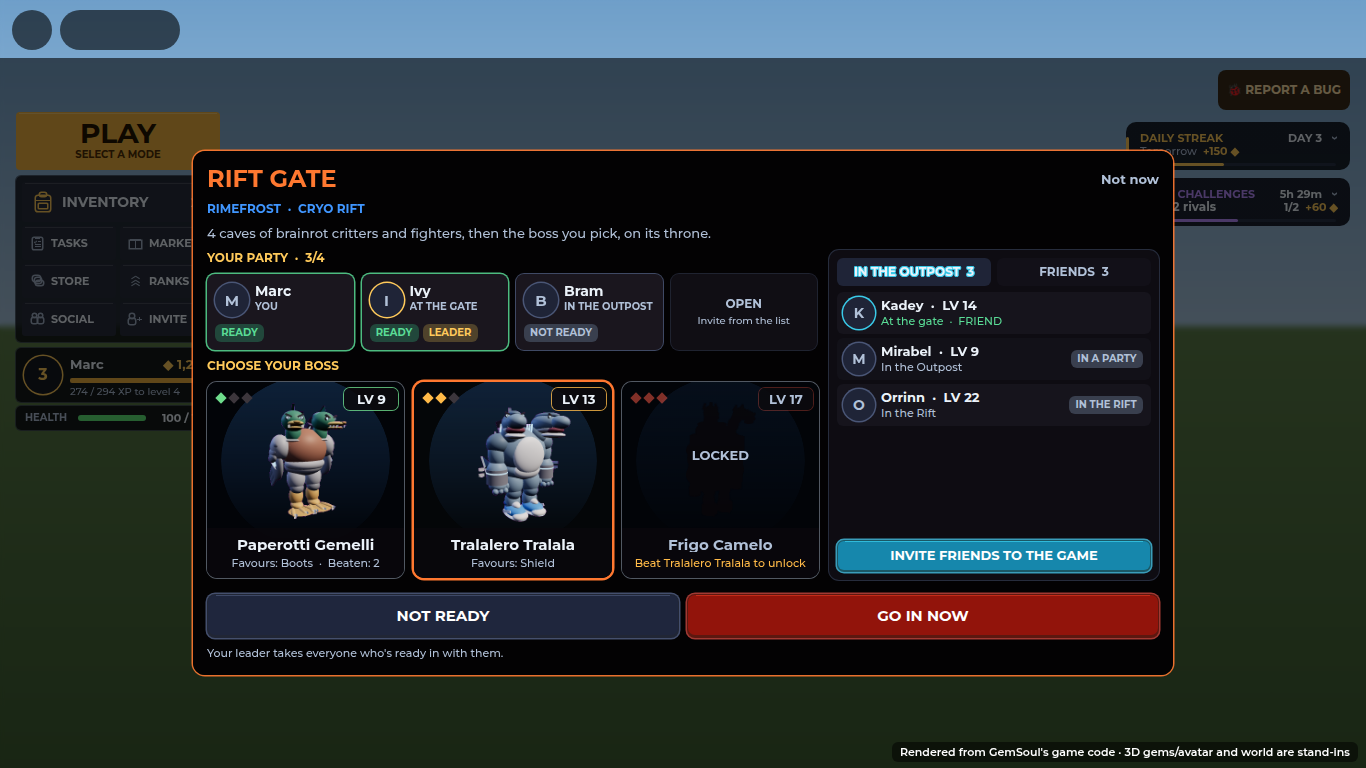
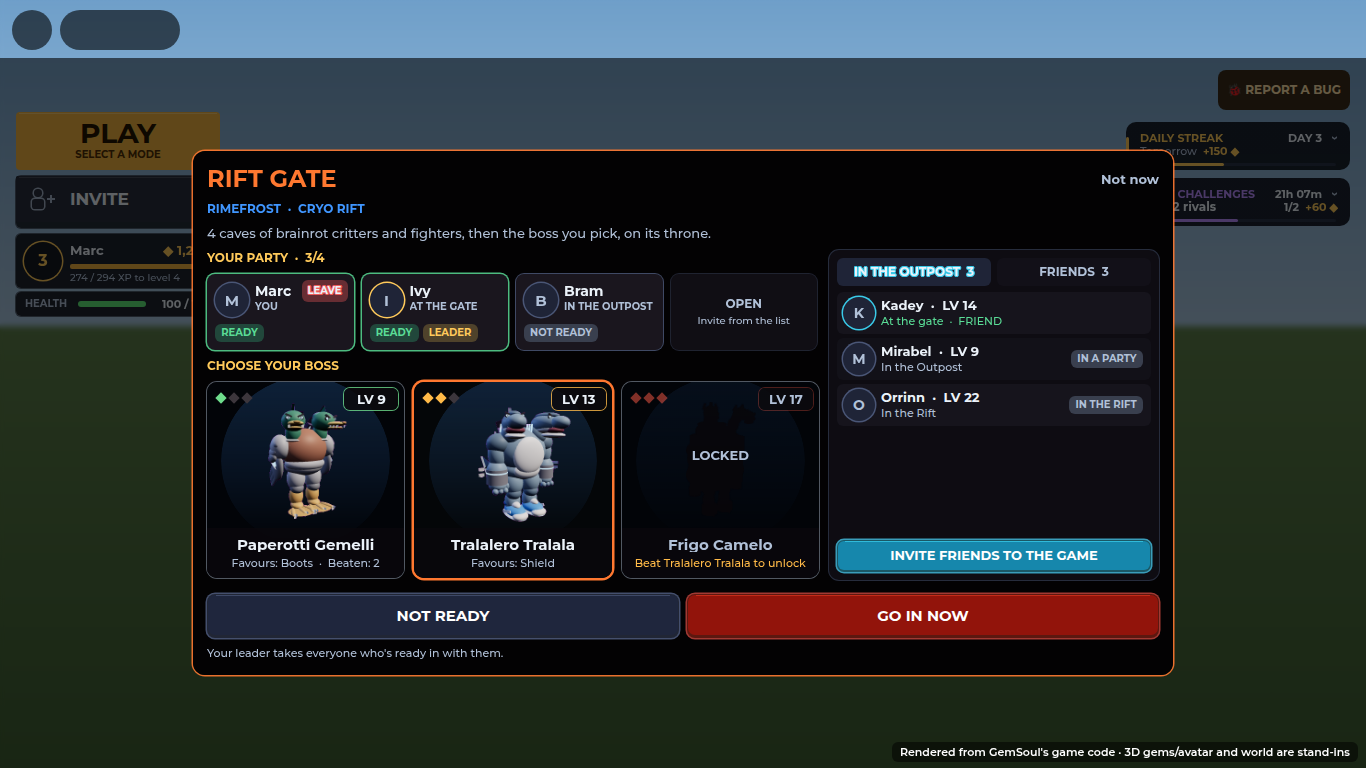
Rift Gate: LEAVE your party, and the leader removes members
The party's places at the Rift Gate now carry the party's own actions.
In a party, your card has a red LEAVE in its top corner (PartyLeave).
The leader also gets a small red × in the bottom corner of each other
member's card, by their READY pill (PartyKick). Neither shows on your
own. Either way a toast says what happened, and the gate redraws from
PartyChanged.

The × sits at the bottom so the line saying where a member is keeps
its full width; LEAVE narrows only your name.

Spanish for the kick's three messages. Docs and the two party
screenshots in docs/rift.md updated.

Claude-Session: https://claude.ai/code/session_01M9AaiFqQ2dWL5tTu8tuKaL

Changed region(s): [[0.0, 0.25, 0.1537, 0.5625], [0.2152, 0.3438, 0.2767, 0.4062]]

diff --git a/docs/rift.md b/docs/rift.md
@@ -46,6 +46,13 @@ shots are the real client code rendered by the UI harness.
     **LEADER** on the leader. You're first and marked **YOU**. An empty
     place says **OPEN** · "Invite from the list". On your own you're the
     only member, ready, and no one is marked leader.
+
+    In a party, your own card has a red **LEAVE** in its top corner
+    (`PartyLeave`: you're out, and the gate shows you on your own). The
+    leader also sees a small red **×** in the bottom corner of each other
+    member's card, by their READY pill, to remove them from the party
+    (`PartyKick`; leaders only). Either way a toast says what happened.
+    Others' cards keep their whole line for where they are.
   - **CHOOSE YOUR BOSS**: the biome's ladder as a row of cards (see
     [The ladders](#the-ladders)). Each card has:
     - the boss's portrait: its real body, built once by the server into
@@ -97,9 +104,9 @@ shots are the real client code rendered by the UI harness.
     redraws when something changed. It closes by itself when you're taken
     in.
 
-  ![Leading a party of three: Ivy at the gate and ready, Bram in the Outpost and not](rift/gate-lobby-party.png)
+  ![Leading a party of three: LEAVE on your card, × on Bram's and Ivy's to remove them](rift/gate-lobby-party.png)
 
-  ![In Ivy's party: READY and GO IN NOW, no INVITE (only the leader invites)](rift/gate-lobby-member.png)
+  ![In Ivy's party: LEAVE on your card, no × (only the leader removes), READY and GO IN NOW](rift/gate-lobby-member.png)
 
   ![The FRIENDS tab: Kadey here, Sasha and Theo online elsewhere (INVITE ↗)](rift/gate-lobby-friends.png)
 
